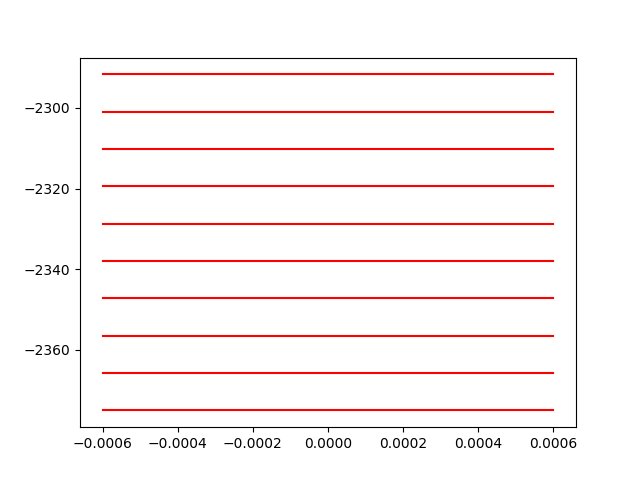
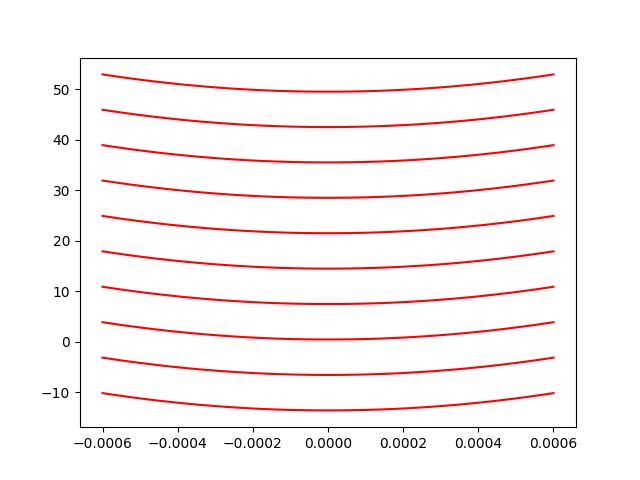
moved all parameter to the excel sheet, added code to compute table for zero andpusher k_eq

diff --git a/main.py b/main.py
@@ -23,10 +23,44 @@ import logging
 from pint import UnitRegistry
 import shutil
 
-forceMin = 5.5
-forceMax = 5.70
-rangeMin = -0.0006 #-0.0006 #-0.0011
-rangeMax = 0.0006 #0.0006 #0.0011
+forceMin = 0
+forceMax = 0
+rangeMin = 0
+rangeMax = 0
+
+def computeRigidityTableZero(mechanism, path):
+    # setting the axes at the centre
+    fig = plt.figure()
+    x = np.linspace(rangeMin, rangeMax, 100)  # position
+    yE = []
+    for j in range(0, len(x)):
+        Etot = 0
+        for part in mechanism:
+            Etot = Etot + mp.diff(lambda x: part.energyStored(x, 0, 0), x[j],2)
+        yE.append(Etot.real)
+    # plot the function
+    plt.plot(x, yE, 'r')
+    plt.savefig('computeRigidityTableZero.png')
+    plt.savefig(os.path.join(path, 'computeRigidityTableZero.png'))
+
+def computeRigidityTableKeq(mechanism, path):
+    # setting the axes at the centre
+    fig = plt.figure()
+    ax = fig.add_subplot(1, 1, 1)
+
+    f = np.linspace(forceMin, forceMax, 10)  # force Preload
+    x = np.linspace(rangeMin, rangeMax, 100)  # position
+    for i in range(0, len(f)):
+        yE = []
+        for j in range(0, len(x)):
+            Etot = 0
+            for part in mechanism:
+                Etot = Etot + mp.diff(lambda x: part.energyStored(x, f[i], 0), x[j],2)
+            yE.append(Etot.real)
+        # plot the function
+        plt.plot(x, yE, 'r')
+    plt.savefig('computeRigidityTableKeq.png')
+    plt.savefig(os.path.join(path, 'computeRigidityTableKeq.png'))
 def computeEnergy(mechanism, path):
     # setting the axes at the centre
     fig = plt.figure()
@@ -94,15 +128,11 @@ def computeForceAsPositionANDPreloadTaylor(mechanism, path):
         yE = []
         for j in range(0, len(x)):
             Etot = 0
-            parameter = [0, 0, 0]
             for part in mechanism:
-                p = mp.taylor(lambda x: part.energyStored(x, f[i], 0), 0.1, 3)
-                parameter[0] = parameter[0] + p[0]
-                parameter[1] = parameter[1] + p[1]
-                parameter[2] = parameter[2] + p[2]
-            yE.append(mp.polyval(parameter[::-1], x[i]).real)
+                Etot = Etot + mp.diff(lambda x: part.energyStored(x, f[i], 0), x[j])
+            yE.append(Etot.real)
         # plot the function
-        plt.plot(x, yE, 'r')
+        plt.plot(x, yE, 'g')
     plt.savefig('ForceAsPositionANDPreloadPolynomial.png')
     plt.savefig(os.path.join(path, 'ForceAsPositionANDPreloadPolynomial.png'))
 
@@ -132,7 +162,6 @@ def computeMu(mechanism, newpath):
     with open('report.md') as f:
         for line in (f):
             filedata = filedata + line.replace('mu_r', 'mu_r = '+str(3))
-            print(line.replace('mu_r = ', 'mu_r = '+str(3)))
     # Write the file out again
     with open('report.md', 'wt') as file:
         file.write(filedata)
@@ -160,23 +189,35 @@ def main():
     ureg = UnitRegistry()
     for i in range(0, len(df. index)):
         row = df.loc[i, :].values.flatten().tolist() # extract each row as a list
-        result = ureg.parse_expression((str(row[1])+" "+str(row[2]))).to(ureg.meter) #convert it to meter
+        result = 0
+        if(str(row[2]) == "mm"):
+            result = ureg.parse_expression((str(row[1])+" "+str(row[2]))).to(ureg.meter) #convert it to meter
+        else:
+            result = ureg.parse_expression((str(row[1])+" "+str(row[2])))
         parameters[row[0]] = result.magnitude
     print(parameters)
 
+    global forceMin   # deso pas deso
+    global forceMax
+    global rangeMin
+    global rangeMax
+    forceMin = parameters["forceMinRigidity"]
+    forceMax = parameters["forceMaxRigidity"]
+    rangeMin = parameters["rangeXProbeMin"]  # -0.0006 #-0.0011
+    rangeMax = parameters["rangeXProbeMax"]  # 0.0006 #0.0011
     # define the mechanism
     print("--------------------------------------------")
-    b_wheel = 0.008 # 8 mm
-    b_converter = 0.004  # 8 mm
-    E = 110  #200 GPa steel, 110 titanium
-    pivotRCC      = RCCPivot(b_wheel , 0.018, parameters["BladeThicknessRCC"], E, f_XtoRotation, 0.005) # +- 1'000. N/m after conversion from Couple/rad
-    wheelAnchor   = SpringBlade(b_converter, 0.0075, parameters["bladeThicknessWheelAnchor"], E, f_XYRotation) #
-    negativeBladePusher = NegativeRigidityBlade(b_converter, 0.012, parameters["bladeThicknessTablePushing"], E, f_x) #250 N/m
-    negativeBlade = NegativeRigidityBlade(b_converter, 0.018, parameters["bladeThicknessTable"], E, f_x)  # 250 N/m
-    ForceConverter = SpringBlade(b_converter, 0.02, parameters["bladeThicknessForceConverter"], E, f_x)  # 250 N/m
-    ZeroConverter = SpringBlade(b_converter, 0.011, parameters["bladeThicknessZeroConverter"], E, f_Xby8)  # 2000 N/m
-    # mechanism = [ZeroConverter, ZeroConverter]  # reglage zero
-    # mechanism = [ForceConverter, ForceConverter] # k_eq
+    b_wheel = parameters["thicknessWheelPlate"] # 8 mm
+    b_converter = parameters["thicknessConverterPlate"]  # 8 mm
+    E = parameters["Eyoung"]  #200 GPa steel, 110 titanium
+    pivotRCC      = RCCPivot(b_wheel , parameters["BladeLengthRCC"], parameters["BladeThicknessRCC"], E, f_XtoRotation, parameters["RCCdeadCenter"]) # +- 1'000. N/m after conversion from Couple/rad
+    wheelAnchor   = SpringBlade(b_converter, parameters["bladeLengthWheelAnchor"], parameters["bladeThicknessWheelAnchor"], E, f_XYRotation) #
+    negativeBladePusher = NegativeRigidityBlade(b_converter, parameters["bladeLengthTablePushing"], parameters["bladeThicknessTablePushing"], E, f_x) #250 N/m
+    negativeBlade = NegativeRigidityBlade(b_converter, parameters["bladeLengthTable"], parameters["bladeThicknessTable"], E, f_x)  # 250 N/m
+    ForceConverter = SpringBlade(b_converter, parameters["bladeLengthForceConverter"], parameters["bladeThicknessForceConverter"], E, f_x)  # 250 N/m
+    ZeroConverter = SpringBlade(b_wheel, parameters["bladeLengthZeroConverter"], parameters["bladeThicknessZeroConverter"], E, f_Xby8)  # 2000 N/m
+    mechanismZero = [ZeroConverter, ZeroConverter]  # reglage zero
+    mechanismKeqForce = [ForceConverter, ForceConverter] # k_eq
     mechanism = [pivotRCC, pivotRCC, wheelAnchor, wheelAnchor, negativeBladePusher, negativeBladePusher, negativeBladePusher, negativeBlade, negativeBlade , negativeBlade, ZeroConverter, ZeroConverter]
     print("mechanism definition :")
     for part in mechanism:
@@ -198,9 +239,16 @@ def main():
     if not os.path.exists(newpath):
         os.makedirs(newpath)
         shutil.copyfile(excelPATH, os.path.join(newpath, excelPATH))
-    print("create new folder with result :" + newpath)
-    # generate the graphs and save them to a new folder + update the one here
+    print("created new folder with result :" + newpath)
     print("---------------------------------------------------------")
+    # generate the graphs and save them to a new folder + update the one here
+
+    # 1) rigidité de la table de réglage du zéro en fonction du moteur de réglage du zéro.
+    print("compute Zéro offset table Rigidity")
+    computeRigidityTableZero(mechanismZero, newpath)
+    # 2) rigidité de la table de réglage du k_eq en fonction du moteur de réglage du k_eq.
+    print("compute Keq table Rigidity and offset")
+    computeRigidityTableKeq(mechanismKeqForce, newpath)
     # 6) E(x) [J] : Energie potentielle élastique totale du corps d’épreuve en fonction du déplacement x.
     print("compute Energy")
     computeEnergy(mechanism, newpath)

diff --git a/report.md b/report.md
@@ -22,32 +22,11 @@ qui consiste à minimiser la valeur RF(keq,min)
 Correction du zéro : le système de réglage doit permettre de corriger des forces parasites
 selon l’axe X dans l’intervalle suivant : −1 mN <= Fparasite <= 1 mN
 
+nous allons dabord dimmensionné le système de correction du zéro 
+car sa rigidité doit êre prise en compte dans la rigidité total du système.
 
-## 3.1 rigidité 
-meme actionneur utilisé pour les deux fonction :
-q_p = 0.05 mm / tour (vis différentiel : 0.5 mm et 0.45 mm )
-d_p = M2.5 et M3
-R_alphap = 1.6° (backlash du reducteur) sinon 0.024245°=360/(512 code/tour * 29 (réducteur))
-R_p = 0.003367 micron (q_p/(512*29 (reducteur))) ou 0.22222 micron (backlash)
-plage de p max = 0-1mm
 
-force que le pusher doit pouvoir appliquer
-forceMin = 5.5*3=16.5 N
-forceMax = 5.70=17.1 N
-(si possible pré contraindre le pusher pour economiser un ressort + améliorer gamme dynamique)
-
-k table pusher = delta F sur x = 0.6N/0.001 m=600 N/m
-table vrai = 750 N/m
-preload of 0.022 m -> 22mm ... ()
-
-forceMin = 5.5*3=11.1 N
-forceMax = 5.70=17.1 N
-donc avec 6000 N/m de vrai table il nous faut une précontrainte de 1.85mm
-c'est acceptable
-
-(vérifier que les lame supporte une déformation de 3mm)
-
-## 3.2 réglage du zéro
+## 3.1 réglage du zéro
 meme actionneur utilisé pour les deux fonction :
 q_z = 0.05 mm / tour (vis différentiel : 0.5 mm et 0.45 mm )
 d_z = M2.5 et M3
@@ -60,12 +39,72 @@ Plage de réglage demandé : -1mF à 1mF
 nombre de position possible du moteur = 4'500
 Rfz = deltaFparasite / nombre de position possible du moteur = 2mN/4500= 4.444*10^{-7}[N]
 
-rigidité des lames : (2 lames*ratio transformation de 8 -> 8000 N/m par lame)
+dans le but de diminuer l'impacte de la rigidité de la table sur le reste du systeme,
+nous avons utiliser la roue pour diminué la course rensentie par la table
+à lame d'un facteur 8. en échange il nous à fallu fournir 8 fois plus de force
+donc pas +-1mN mais +-8mN
+rigidité des lames : (2 lames*ratio transformation de 8 -> 16 N/m par lame)
 
+nous avons donc tuner les parametre de notre table pour obtenir la rigidité total de 16 N/m:
+avec une table à 2 lamme de de 11.98 mm de long, 8mm de largeur et 100 um d'épaisseur
+
+![computeRigidityTableZero.png](computeRigidityTableZero.png)
+
+## 3.2 rigidité 
+meme actionneur utilisé pour les deux fonction :
+q_p = 0.05 mm / tour (vis différentiel : 0.5 mm et 0.45 mm )
+d_p = M2.5 et M3
+R_alphap = 1.6° (backlash du reducteur) sinon 0.024245°=360/(512 code/tour * 29 (réducteur))
+R_p = 0.003367 micron (q_p/(512*29 (reducteur))) ou 0.22222 micron (backlash)
+plage de p max = 0-1mm
+
+pour déterminer la force que le pusher doit appliquer on graphe le k_eq du system
+jusqua trouver les bonnes forces
+on aimerais que nos rigidité sois entre : 50 N/m et 
+
+pour la borne minimal on veux une résolution 500 nN
+mais la résoltion du cateur est de 10 micron
+ce qui nous donne une rigidité à 0.05 N/m ou mieux (0 N/m)
+
+![RigidityAsPositionANDPreload.png](RigidityAsPositionANDPreload.png)
+
+on peut voir que les parametre qui rentre bien dans le range sont :
+2.53 N au minimum
+2.63 N au maximum
+Ces valeurs représente la force à appliquer par lamme.
+comme il y as 3 lamme  en parralel, il faut en réalité 
+forceMin = 2.53*3=7.59 N
+forceMax = 2.63*3=7.89 N
+si on voulais maximiser la résoltion il faudrait que le
+0.3 N de force revienne à une course d'un 1mm de la table à lamme.
+hors cela impliquerais une déformation de 26 mm latérallement.
+
+hors pour des raison géométrique, il est difficile d'avoir une tel course.
+
+nous choississont donc limiter la course de notre table à 2 mm 
+de plus nous allons précontraidre la table de 1mm à l'assemblage 
+pour profiter de la précharge et supprimer le jeux sur l'actionneur
+en plus de profiter d'une meilleure résolution de la force de précharge
+dans la région d'interet.
+
+cela impose à notre table d'avoir une rigidité de 7.89N/0.002m=3'945 N/m
+et nous pourrons ainsi obtenir une résolution de rigidité.
+pour se faire on utilise le nombre de position distincte que l'axe linéaire
+peut prendre (4500) répartis sur la plage d'un 1mm ce qui nous donne
+3.945 N / 4500 point = 0.8766 mN de résolution pour la force de précharge
+
+de plus on vois qu'on est largement en dessous de la force maximal que 
+peut tollérer l'actionneur linéaire.
+
+(vérifier que les lame supporte une déformation de 3mm (demander TRISTAN))
+
+on voit sur le graphique que la table a lame à bien la rigidité de 3945 N/m
+attendu.
+![computeRigidityTableKeq.png](computeRigidityTableKeq.png)
 ## 3.3 débattement des articulation
 (formule mouvement relatif)
 0.5 mm sur toute les lames
-(légerement moins sur la roue est nécéssaire mais simplifier aussi à 0.5 mm)
+(légerement plus sur la roue est nécéssaire mais simplifier à 1 mm)
 
 ## 3.4 contrainte max flamage + casse chaque lame
 
@@ -80,14 +119,14 @@ donc on se limite à 50 Newton par sécurité
 ( et  on vois par la suite que la force de précontrainte est inférieur dans tout les cas)
 
 ## 3.6 Energie de chaque systeme + total 
-Energie de chaque systeme + total pour le réglage de force max et min sur toute la plage de x
 ![EnergyAsPreloadPosition.png](EnergyAsPreloadPosition.png)
+Energie total pour le réglage de force sur toute la plage de x
 (échelle en unité SI, Joule par metre (avec une précharge N pour chaque courbe))
 attention. la force de précontrainte est calculer est calculer par lame.
 pour avoir la valeurs total il faut multiplier par le nombre de lame qui transmettent la force
 et la au point de rigidité minimum avec un graph pour chaque élément
 
-graph de l'energie dans chaque lammes en fonction de la position
+Energie de chaque systeme + 
 ![computeEnergyk_minPart.png](computeEnergyk_minPart.png)
 
 ## 3.7 dérivé energie = Force en fonction de X
@@ -104,9 +143,9 @@ F (x) ∼= Fpoly3(x) = a0 + a1 · x + a2 · x2 + a3 · x3 ;
 ![RigidityAsPositionANDPreload.png](RigidityAsPositionANDPreload.png)
 
 ## 3.10 non-linéarité relative mu pour p min et max
-mu_r=a_3/a_1
+mu_r = 3 = 3 = 3 = 3 = 3 = 3 = 3 = 3 = 3 = 3 = 3 = 3 = 3 = 3 = 3 = 3 = 3 = 3 = 3 = 3 = 3 = 3 = 3 = 3 = 3 = 3 = 3 = 3 = 3 = 3 = 3 = 3 = 3 = 3 = 3 = 3 = 3 = 3 = 3 = 3 = 3 = 3 = 3 = 3 = 3 = 3 = 3=a_3/a_1
 
-mu_r = 3
+mu_r = 3 = 3 = 3 = 3 = 3 = 3 = 3 = 3 = 3 = 3 = 3 = 3 = 3 = 3 = 3 = 3 = 3 = 3 = 3 = 3 = 3 = 3 = 3 = 3 = 3 = 3 = 3 = 3 = 3 = 3 = 3 = 3 = 3 = 3 = 3 = 3 = 3 = 3 = 3 = 3 = 3 = 3 = 3 = 3 = 3 = 3 = 3 = 3
 
 (dans le cas p_min et p_max)
 
